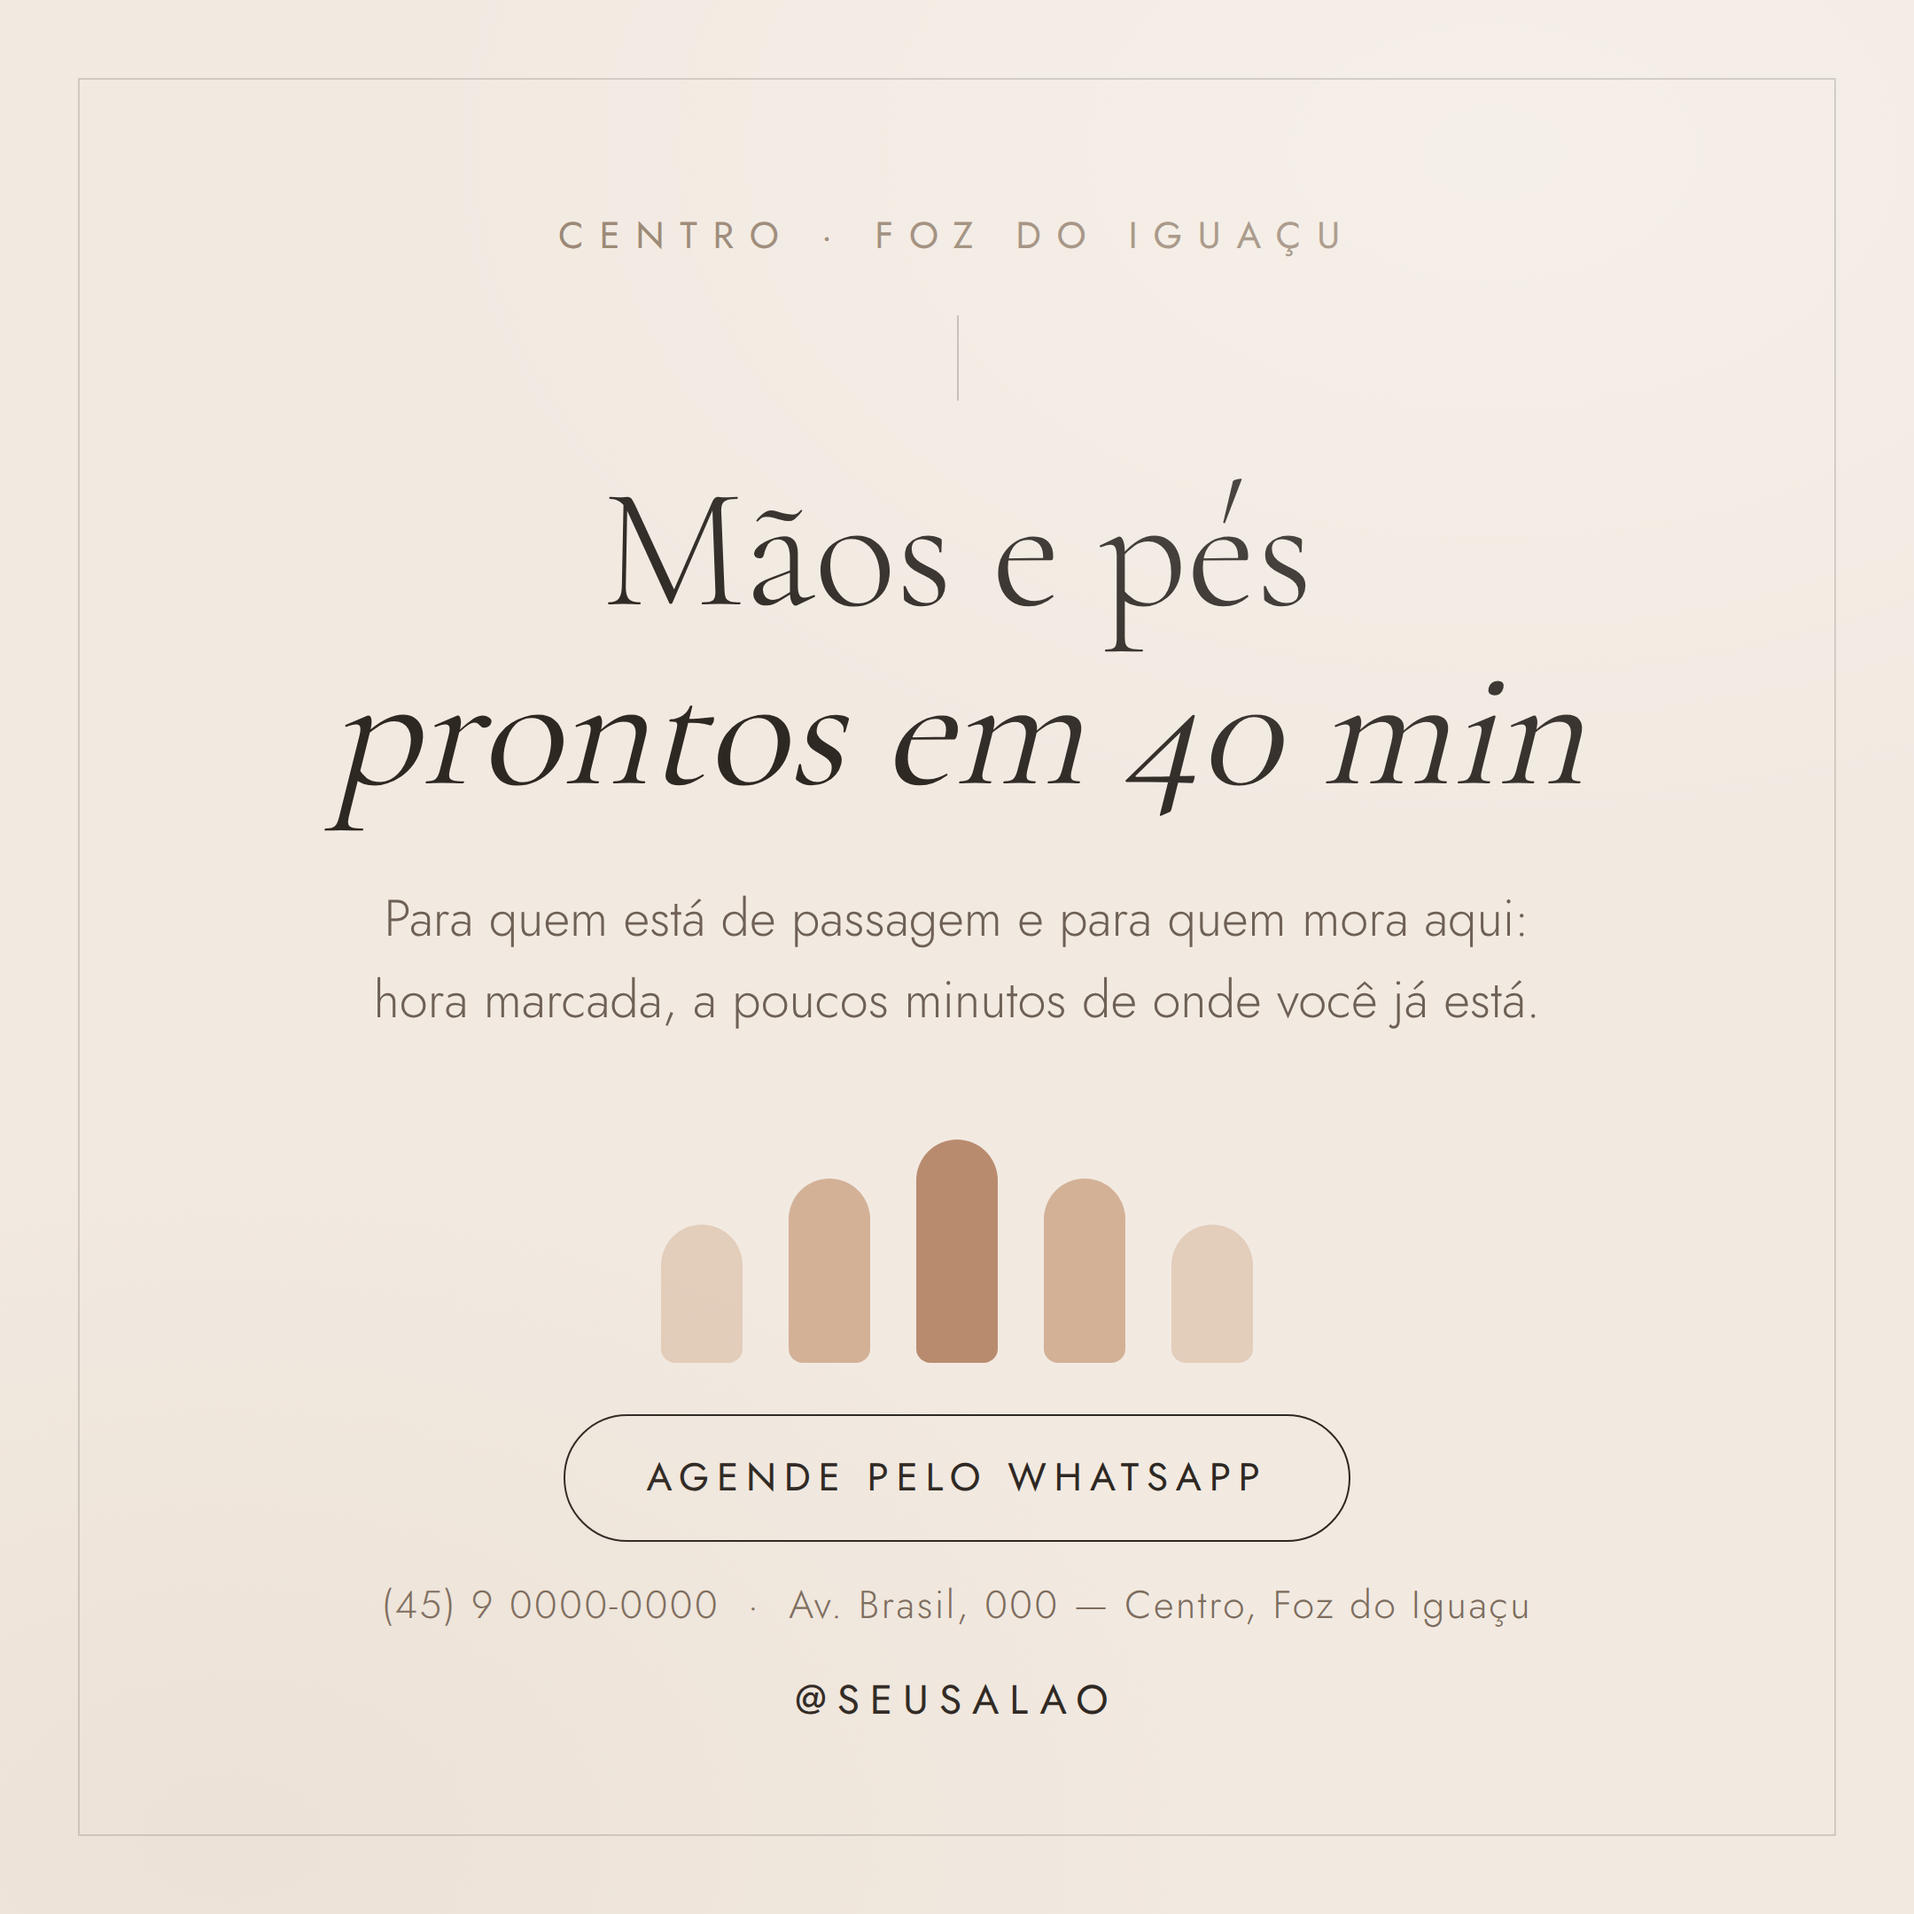
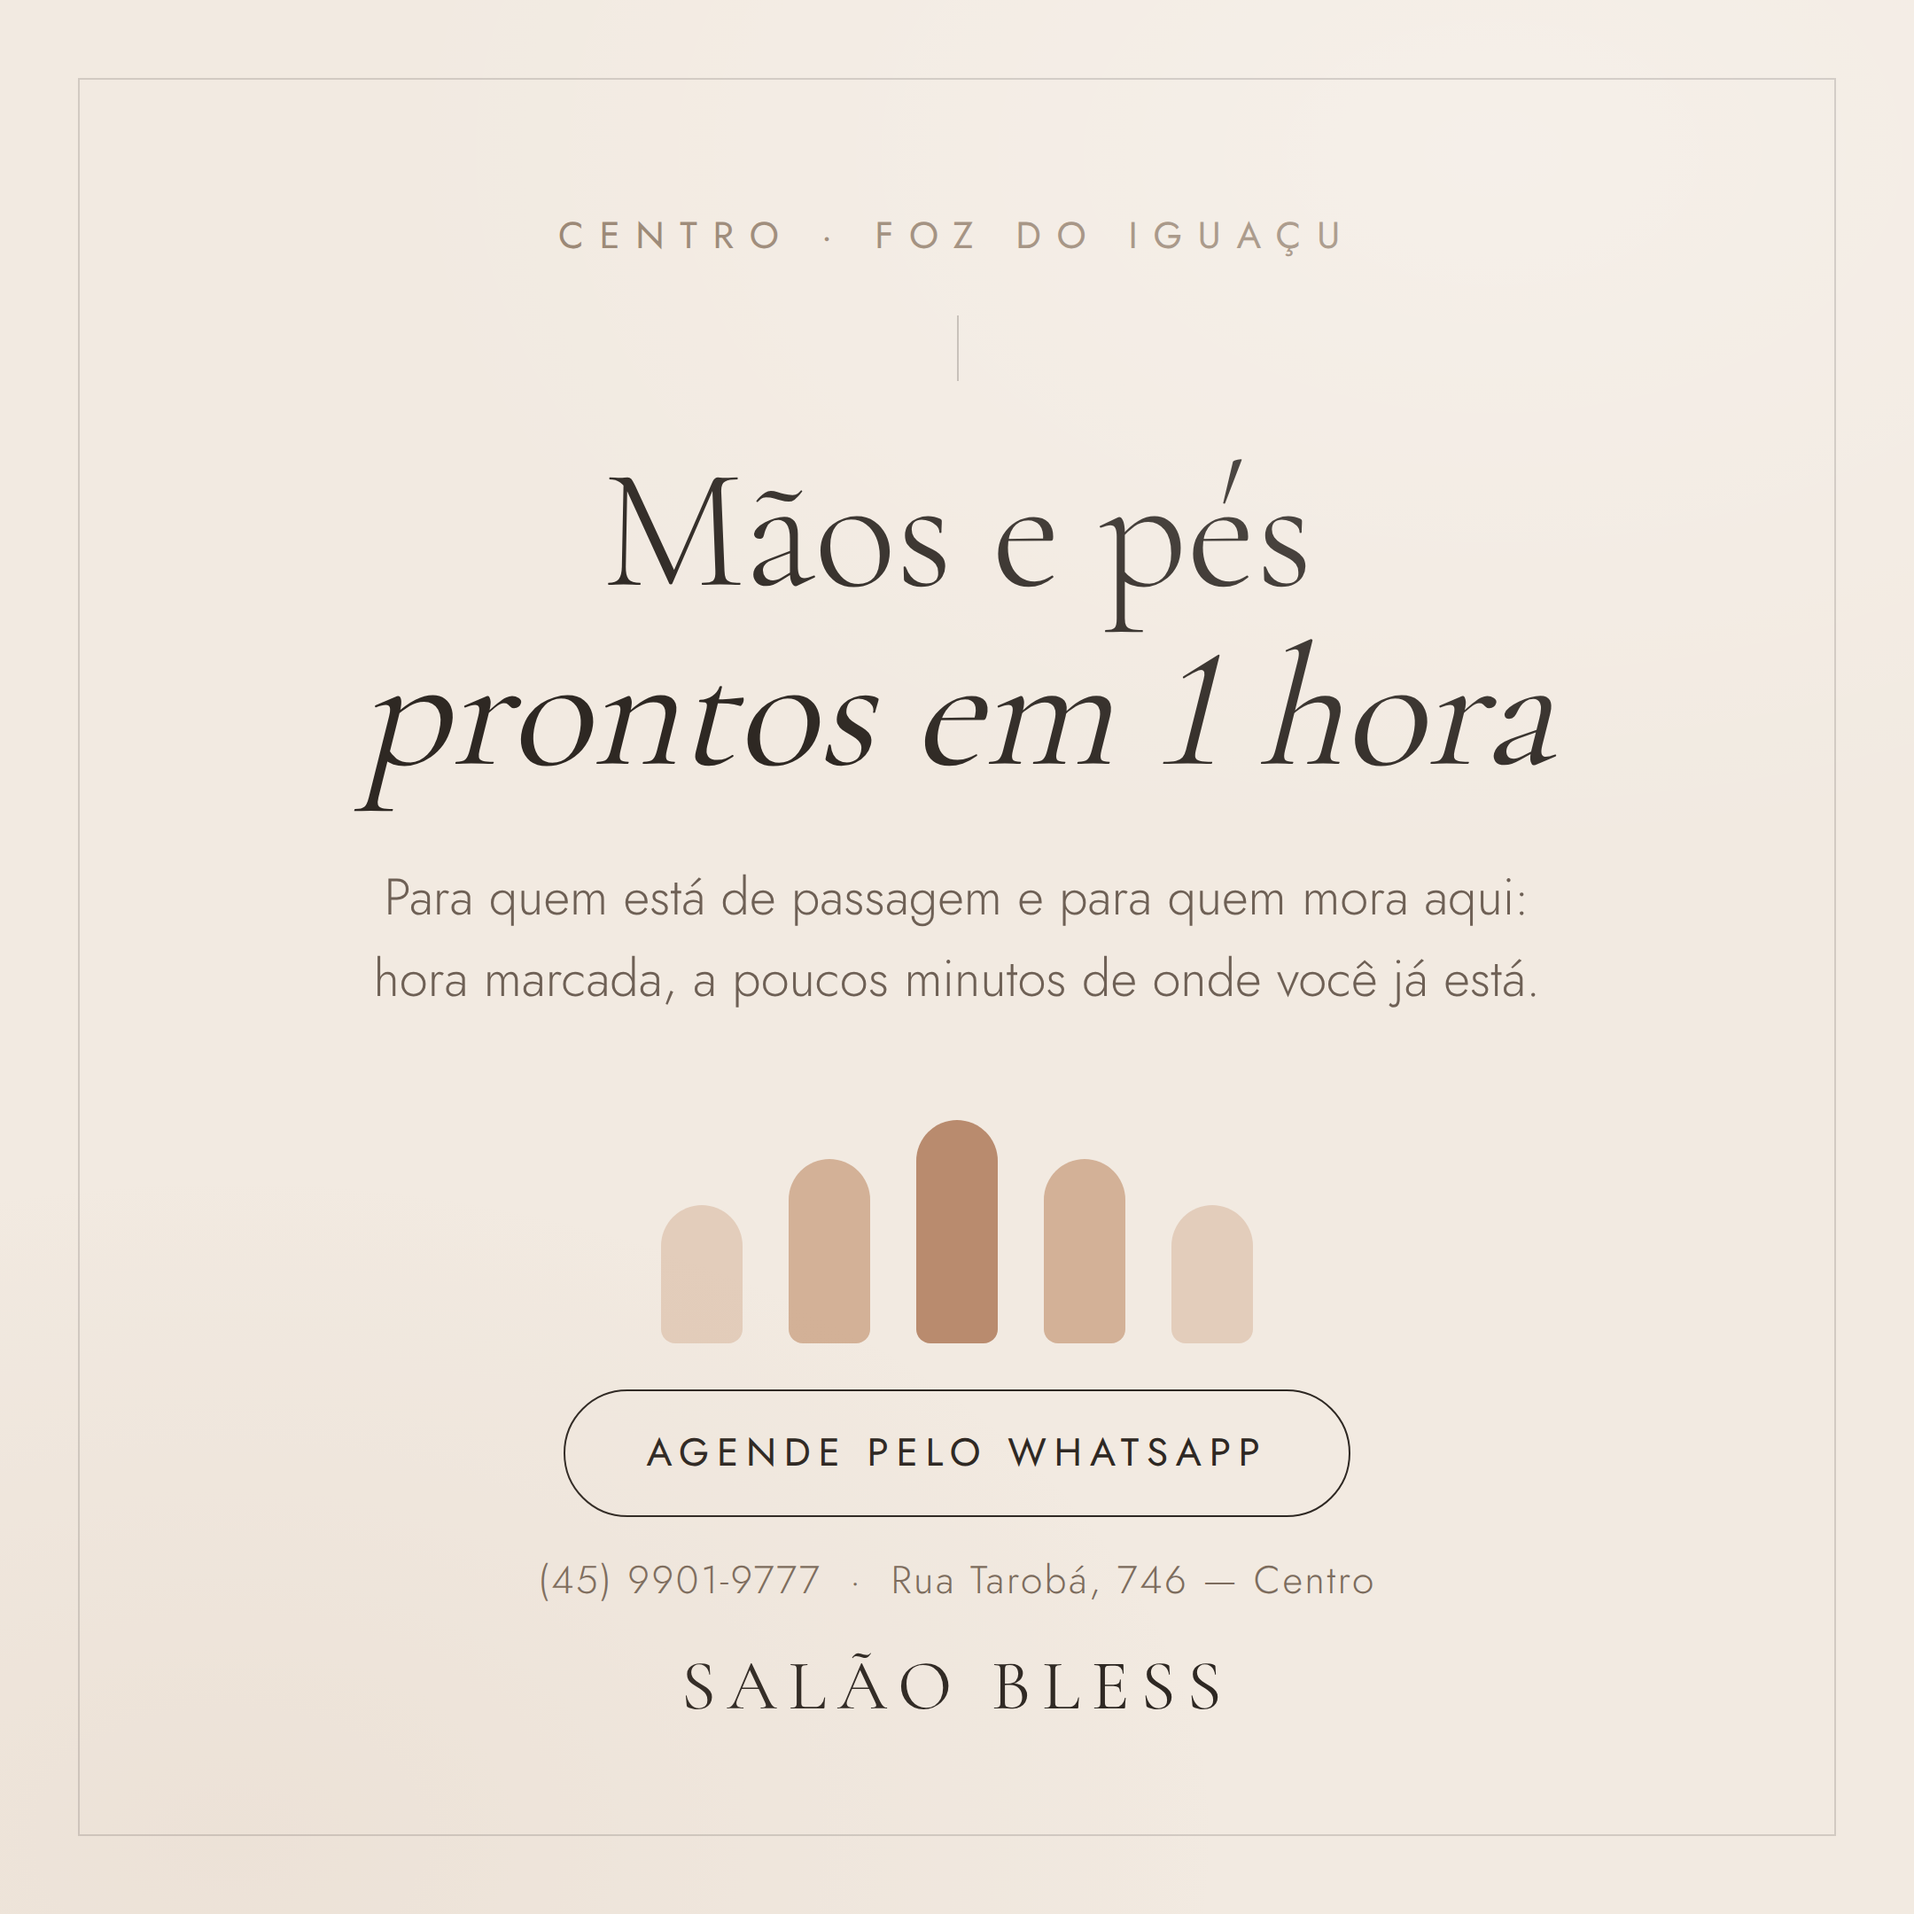
Aplica dados reais do Salao Bless nas artes e na legenda
Substitui os placeholders pelo nome, telefone e endereco do salao, ajusta a
promessa de 40 min para 1 hora conforme o tempo real do servico, usa
algarismos lining no titulo e mantem o preco fora da arte (so na conversa).

Claude-Session: https://claude.ai/code/session_01WqLqpTjJMR25kuJwGS17re

diff --git a/instagram/legenda-post.md b/instagram/legenda-post.md
@@ -1,4 +1,4 @@
-# Post — Manicure express no Centro de Foz do Iguaçu
+# Salão Bless — Post de captação, Centro de Foz do Iguaçu
 
 Duas artes para testar (1080×1080, feed):
 
@@ -8,41 +8,48 @@ Duas artes para testar (1080×1080, feed):
 Suba as duas com 2 a 3 dias de diferença, com a mesma legenda. A que trouxer mais
 conversa no WhatsApp é a que você impulsiona.
 
+> ⚠ **Confirmar o WhatsApp.** O número enviado foi 99019777 — 8 dígitos. Celular no
+> Brasil tem 9. Nas artes está como **(45) 9901-9777**; me diga o dígito que falta
+> (provavelmente um 9 na frente: (45) 9 9901-9777) que eu regero as duas em um minuto.
+
 ---
 
 ## Legenda (versão principal)
 
-> Você está no Centro de Foz e tem 40 minutos livres.
+> Você está no Centro de Foz e tem uma hora livre.
 >
-> É o tempo de tomar um café. Também é o tempo de sair daqui com as mãos e os pés prontos.
+> É o tempo de um almoço. Também é o tempo de sair daqui com as mãos e os pés prontos.
 >
-> Atendimento com hora marcada, a poucos minutos de onde você já está — seja o seu hotel, o seu trabalho ou a sua casa.
+> No Salão Bless você agenda o horário e é atendida na hora marcada — a poucos minutos
+> de onde você já está, seja o seu hotel, o seu trabalho ou a sua casa.
 >
-> ✷ Mão e pé em até 40 min
+> ✷ Mão e pé em 1 hora
 > ✷ Materiais esterilizados, um kit por cliente
 > ✷ Agenda por horário, sem fila de espera
 >
-> 📍 Av. Brasil, 000 — Centro, Foz do Iguaçu
-> 💬 Chama no WhatsApp (45) 9 0000-0000 e reserve o seu horário de hoje.
+> 📍 Rua Tarobá, 746 — Centro, Foz do Iguaçu
+> 💬 WhatsApp (45) 9901-9777 — chama que a gente te passa os horários de hoje.
 >
-> Comenta **"CENTRO"** aqui embaixo que eu te mando o link direto. 💅
+> Comenta **"CENTRO"** aqui embaixo que eu te chamo no direct. 💅
 
 ### Variação B (mais direta ao turista)
 
-> Veio para as Cataratas e esqueceu de fazer as unhas? A gente resolve em 40 minutos.
+> Veio para as Cataratas e esqueceu de fazer as unhas? A gente resolve em 1 hora.
 >
-> Estamos no Centro de Foz — pertinho do seu hotel. Hora marcada, sem espera, para você não perder nada do seu roteiro.
+> Salão Bless, Rua Tarobá, 746 — bem no Centro de Foz, pertinho do seu hotel.
+> Hora marcada, sem espera, para você não perder nada do roteiro.
 >
-> 💬 WhatsApp (45) 9 0000-0000 · 📍 Av. Brasil, 000 — Centro, Foz do Iguaçu
+> 💬 (45) 9901-9777
 
 ### Variação C (para a arte com foto — destaca o efeito pérola)
 
-> Esse efeito pérola dura de 15 a 20 dias. E sai em 40 minutos.
+> Esse efeito pérola dura de 15 a 20 dias. E sai em 1 hora.
 >
-> Estamos no Centro de Foz do Iguaçu, com hora marcada — a poucos minutos de onde você já está.
-> Se você está de passagem pela cidade, dá tempo antes do próximo passeio.
+> Salão Bless, no Centro de Foz do Iguaçu, com hora marcada — a poucos minutos de onde
+> você já está. Se você está de passagem pela cidade, dá tempo antes do próximo passeio.
 >
-> 💬 WhatsApp (45) 9 0000-0000 · 📍 Av. Brasil, 000 — Centro, Foz do Iguaçu
+> 📍 Rua Tarobá, 746 — Centro
+> 💬 (45) 9901-9777
 >
 > Comenta **"PÉROLA"** que eu te mando os horários de hoje. 🤍
 
@@ -53,7 +60,8 @@ conversa no WhatsApp é a que você impulsiona.
 ```
 #fozdoiguacu #centrodefoz #manicurefozdoiguacu #unhasfoz #nailsfoz
 #fozdoiguaçu #esmalterianofoz #turismofozdoiguacu #cataratasdoiguacu
-#unhasperola #efeitosereia #unhasdasemana #manicureepedicure #belezafoz #fozdoiguaçupr #salaodebelezafoz
+#unhasperola #efeitosereia #unhasdasemana #manicureepedicure
+#belezafoz #fozdoiguaçupr #salaodebelezafoz #ruataroba
 ```
 
 ---
@@ -63,30 +71,40 @@ conversa no WhatsApp é a que você impulsiona.
 **Objetivo:** Mensagens no WhatsApp (não use "mais visualizações" — não gera lead).
 
 **Segmentação por localização:**
-- Selecione o **pino no mapa** no Centro de Foz do Iguaçu (endereço do salão) com raio de **2 a 4 km**.
+- Selecione o **pino no mapa** na Rua Tarobá, 746, com raio de **2 a 4 km**.
   Raio maior que isso começa a pegar bairro que não vem a pé.
-- Se o Instagram oferecer a opção, escolha **"Pessoas nesta localização"** ou **"Pessoas visitando esta localização"** —
-  é essa opção que alcança turista hospedado por perto. "Pessoas que moram aqui" exclui exatamente o público de viagem.
+- Se o Instagram oferecer a opção, escolha **"Pessoas nesta localização"** ou
+  **"Pessoas visitando esta localização"** — é essa opção que alcança turista hospedado
+  por perto. "Pessoas que moram aqui" exclui exatamente o público de viagem.
 
 **Público:**
-- Gênero: mulheres (e todos, se você atende homens também)
+- Gênero: mulheres (e todos, se o Bless atende homens também)
 - Idade: 22 a 55
 - Interesses: beleza, unhas, esmalteria, autocuidado, viagens, turismo
 
-**Orçamento sugerido para teste:** R$ 15–20/dia por 5 dias. Depois desligue o pior criativo e coloque toda a verba no que trouxe mais conversa.
+**Orçamento sugerido para teste:** R$ 15–20/dia por 5 dias. Depois desligue o criativo
+pior e coloque toda a verba no que trouxe mais conversa.
 
-**Melhor horário para publicar:** quinta a sábado, entre 11h e 13h ou 18h e 20h — é quando o turista está planejando o resto do dia.
+**Melhor horário para publicar:** quinta a sábado, entre 11h e 13h ou 18h e 20h — é
+quando o turista está planejando o resto do dia.
 
 ---
 
 ## Antes de impulsionar, confira
 
 - [ ] Botão de **WhatsApp** ativo no perfil (Editar perfil → Opções de contato)
-- [ ] Endereço com **localização do Centro** marcada no post
+- [ ] **Localização "Rua Tarobá, Centro"** marcada no post
 - [ ] Bio com "Centro de Foz do Iguaçu" escrito por extenso (é o que aparece na busca)
-- [ ] Link direto: `https://wa.me/55DDDNUMERO?text=Oi!%20Vi%20o%20post%20e%20quero%20agendar`
+- [ ] Perfil do Salão Bless no **Google Meu Negócio** atualizado — turista pesquisa
+      "manicure perto de mim" no Maps antes de procurar no Instagram
+- [ ] Link direto pronto (confirmar o número antes):
+      `https://wa.me/5545999019777?text=Oi!%20Vi%20o%20post%20e%20quero%20agendar`
 
-## Resposta pronta para quem chamar no direct
+## Resposta pronta para quem chamar no direct ou no WhatsApp
 
-> Oi! Que bom te ver por aqui 💛 Somos no Centro de Foz, na Av. Brasil, 000 — Centro, Foz do Iguaçu.
-> Mão e pé sai em até 40 min. Tenho horário hoje às __h e às __h — qual fica melhor pra você?
+> Oi! Que bom te ver por aqui 💛 Somos o Salão Bless, na Rua Tarobá, 746 — Centro.
+> Mão e pé leva 1 hora. Tenho horário hoje às __h e às __h — qual fica melhor pra você?
+
+**Sem preço na arte** (como você pediu): quando perguntarem valor, responda com o preço
+**junto do horário** — "Mão e pé fica R$ __, tenho hoje às 15h. Reservo pra você?".
+Preço solto costuma terminar a conversa; preço com horário abre agendamento.

diff --git a/instagram/README.md b/instagram/README.md
@@ -1,4 +1,4 @@
-# Instagram — Salão de manicure, Centro de Foz do Iguaçu
+# Instagram — Salão Bless, Centro de Foz do Iguaçu
 
 Conteúdo para captação de leads locais, com foco em turistas hospedados no Centro
 e em moradoras da região.
